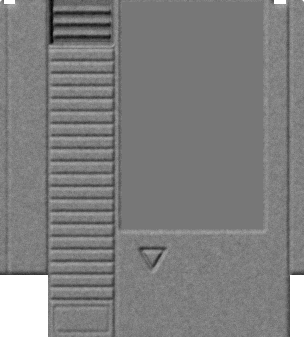
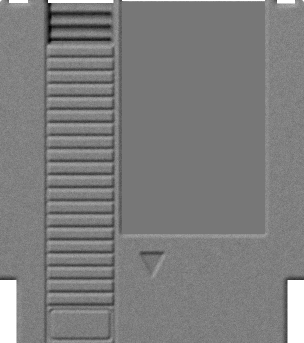
Measure the NES cart off a face-on photograph
The user pointed out the NES cart was uneven: its lower part stepped in by
the whole left rail on one side and a sliver on the other. Measured off
their photograph, it steps in by the same 5% a side at 82% of its height.
Also from the measurements: 304x343, the notches' place in the top edge,
the grip's pocket and 20 ribs, the panel at its foot, no rail groove on the
right, the label to 234, and a solid pressed-in arrow at mid-width. Finer
grain on both shells.

diff --git a/tools/fragile/media/draw_carts.py b/tools/fragile/media/draw_carts.py
@@ -157,7 +157,7 @@ class Shell:
                 v -= 5.0 * max(0.0, far[i] - z[i])  # shade in the bottom of a recess
                 v += 2.6 * min(0.0, z[i] - self.face)  # and the deeper, the darker
                 v += 5.0 * (0.5 - y / h)  # lit a little more at the top
-                v += 4.5 * grain[i] + 4.0 * soft[i] * 2.2  # the speckle of moulded plastic
+                v += 4.5 * grain[i] + 3.0 * soft[i]  # the speckle of moulded plastic
                 c = (v, v, v)
                 fixed = self.flat[i]
                 if fixed is not None:
@@ -265,51 +265,61 @@ def snes():
 
 
 def nes():
-    """An NES cart, face on, measured off a photograph of one: a plain rail down the left,
-    the ribbed grip with a pocket at its top, the label in a recess open to the top edge, a
-    narrow rail down the right, the arrow, a little notch in each top corner, and its lower part
-    narrower, stepped in from both sides, the part that goes into the console."""
-    W, H = 304, 337
+    """An NES cart, face on, measured off a photograph of one (795x896 there, scaled to 304
+    wide): the ribbed grip with a pocket at its top, the label in a recess open to the top
+    edge, the arrow, a notch in the top edge near each corner, and its lower part stepped in
+    by the same amount from both sides, the part that goes into the console."""
+    W, H = 304, 343
     s = Shell(W, H, seed=3)
-    step = 275  # where the lower part steps in
-    left_rail, right_rail = 48, 290
+    step, inset = 280, 16.5  # where the lower part steps in, and by how much a side
     s.outline(0, 0, W, H, r=3)
-    s.cut(0, step, left_rail, H)
-    s.cut(right_rail, step, W, H)
-    for x0, x1 in ((4, 15), (W - 30, W - 18)):
-        s.cut(x0, 0, x1, 4)
-    # A lip down the outer edge of the left rail, and the grooves either side of the grip and
-    # down the right rail.
-    s.height(7, 0, 9, step, -1.2)
-    gx0, gx1 = 50, 114
-    s.height(gx0 - 2.6, 0, gx0, H, -2.5)
-    s.height(gx1, 0, gx1 + 2.6, H, -2.5)
-    s.height(right_rail - 1.6, 0, right_rail + 1.0, step, -2.5)
-    # The pocket at the top of the grip, open at the top edge, three ribs down inside it.
-    pocket = 45
-    s.height(gx0 + 1, 0, gx1 - 1, pocket, -10.0, radii=(0, 0, 1, 1))
+    s.cut(0, step, inset, H)
+    s.cut(W - inset, step, W, H)
+    s.outline(inset, step - 4, W - inset, H, radii=(0, 0, 3, 3))
+    for x0, x1, deep in ((9, 28, 3), (277, 295, 3.5)):
+        s.cut(x0, 0, x1, deep)
+    # The grip, between a groove either side.
+    gx0, gx1 = 47.5, 114
+    s.height(gx0 - 1.5, 0, gx0 + 0.5, H, -2.5)
+    s.height(gx1 - 0.5, 0, gx1 + 1.8, H, -2.5)
+    # The pocket at the top of the grip, its edge a little below the top, three ribs inside.
+    pocket = 44
+    s.cut(gx0 + 0.5, 0, gx1 - 0.5, 3)
+    s.height(gx0 + 1.5, 0, gx1 - 1.5, pocket, -10.0)
     for k in range(3):
-        y = 8 + k * 12
-        s.height(gx0 + 4, y, gx1 - 3, y + 5.0, -7.0)
+        y = 7.5 + k * 13
+        s.height(gx0 + 2, y, gx1 - 2, y + 6.0, -7.0)
     # The ribs of the grip: raised bars with narrow grooves between.
-    gy0, gy1 = pocket + 4, 300
+    gy0, gy1 = pocket + 1, 306
     ribs = 20
     pitch = (gy1 - gy0) / ribs
-    s.height(gx0 + 0.5, gy0 - 1, gx1 - 0.5, gy1 + 1, 0.8)
+    s.height(gx0 + 0.5, gy0, gx1 - 0.5, gy1, 0.8)
     for k in range(ribs + 1):
         y = gy0 + k * pitch
-        s.height(gx0 + 0.5, y - 1.1, gx1 - 0.5, y + 1.1, -1.8)
-    # The plain panel at the foot of the grip, its outline pressed in.
-    s.height(gx0 + 4, gy1 + 6, gx1 - 4, H - 4, -1.6, r=3)
-    s.height(gx0 + 5.5, gy1 + 7.5, gx1 - 5.5, H - 5.5, 0.0, r=2)
+        s.height(gx0 + 0.5, y - 1.2, gx1 - 0.5, y + 1.2, -2.0)
+    # The plain panel at the foot of the grip.
+    s.height(gx0 + 0.5, gy1 + 2, gx1 - 0.5, H, 0.0)
+    s.height(gx0 + 2, gy1 + 3, gx1 - 2, H - 2, -2.2, r=4)
+    s.height(gx0 + 4, gy1 + 5, gx1 - 4, H - 4, 0.0, r=3)
     # The label's recess, open to the top edge, and the flat label in it.
-    lx0, ly0, lx1, ly1 = 122, 2, 263, 229
-    s.height(lx0 - 3, 0, lx1 + 3, ly1 + 3, -2.0, radii=(0, 0, 3, 3))
+    lx0, ly0, lx1, ly1 = 122, 2, 265, 234
+    s.cut(lx0, 0, lx1, 1)
+    s.height(lx0 - 1.5, 0, lx1 + 1.5, ly1 + 1.5, -2.0, radii=(0, 0, 3, 3))
     s.paint(lx0, ly0, lx1, ly1, LABEL, r=1)
-    # The arrow, pressed in about mid-width.
-    mid = W * 0.503
-    tri = [(mid - 12, 250.0), (mid + 12, 250.0), (mid, 270.0)]
-    s.height_where(triangle_edge(tri, 3.2), (mid - 15, 246, mid + 15, 273), -3.0)
+    # The arrow, pressed in, at mid-width.
+    mid = W * 0.502
+    tri = [(mid - 12.5, 253.0), (mid + 12.5, 253.0), (mid, 277.0)]
+
+    def in_tri(x, y):
+        (ax, ay), (bx, by), (cx, cy) = tri
+        d1 = (x - bx) * (ay - by) - (ax - bx) * (y - by)
+        d2 = (x - cx) * (by - cy) - (bx - cx) * (y - cy)
+        d3 = (x - ax) * (cy - ay) - (cx - ax) * (y - ay)
+        neg = d1 < 0 or d2 < 0 or d3 < 0
+        pos = d1 > 0 or d2 > 0 or d3 > 0
+        return not (neg and pos)
+
+    s.height_where(in_tri, (mid - 14, 252, mid + 14, 278), -2.2)
     return s, (lx0, ly0, lx1 - lx0, ly1 - ly0), None
 
 

diff --git a/crates/slot-ui/src/media.rs b/crates/slot-ui/src/media.rs
@@ -30,8 +30,8 @@ const ART: [Art; Media::COUNT] = [
     Art {
         png: include_bytes!("../../../assets/nes_neutral.png"),
         w: 304,
-        h: 337,
-        label: (122, 2, 141, 227),
+        h: 343,
+        label: (122, 2, 143, 232),
         sticker: None,
         colour: [0x8a, 0x8a, 0x8e],
     },
